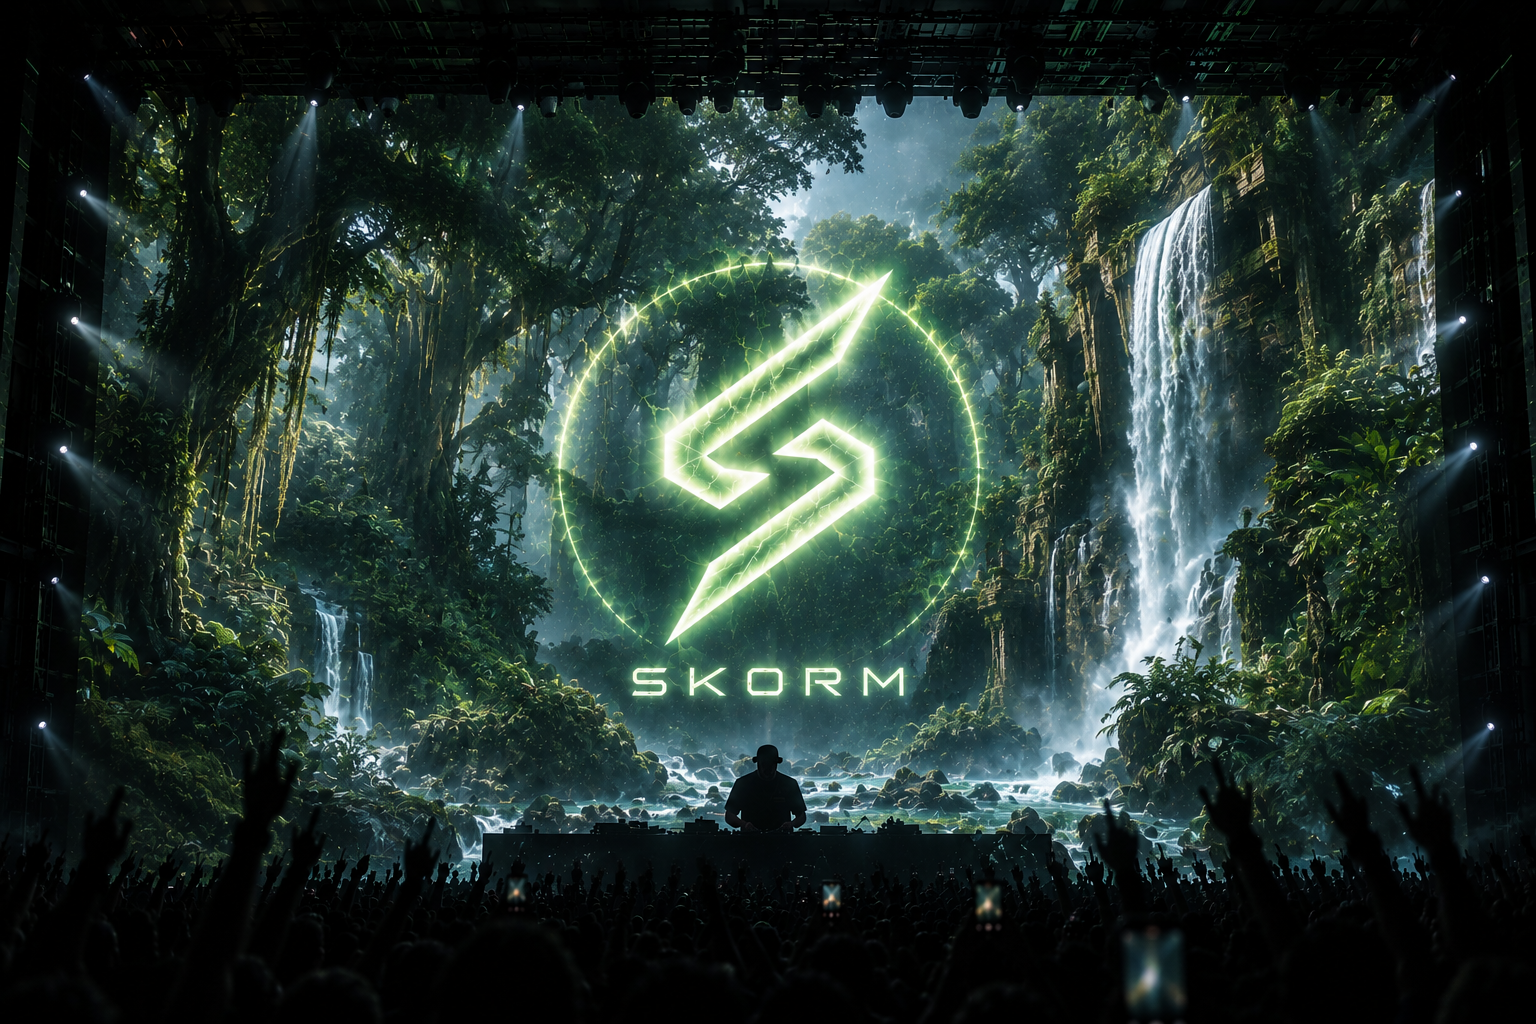
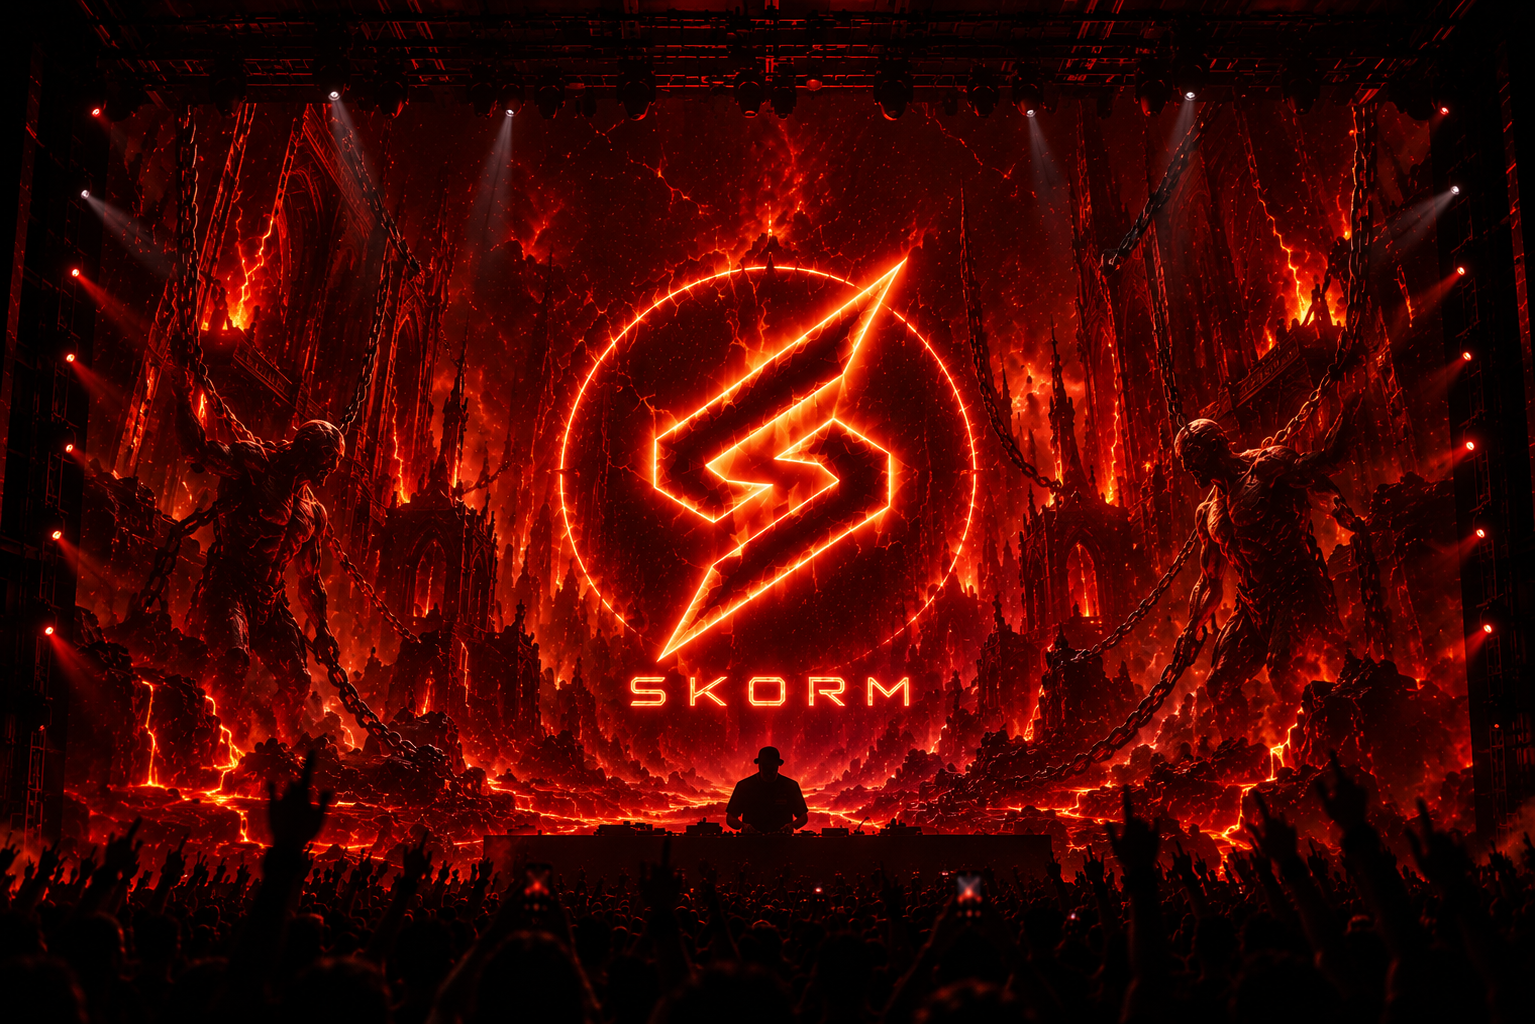
chore(theme): sync active design

diff --git a/assets/active-palette.css b/assets/active-palette.css
@@ -1,5 +1,5 @@
 :root {
-    --skorm-base-rgb: 2 8 6;
-    --skorm-secondary-rgb: 5 18 13;
-    --skorm-accent-rgb: 166 255 151;
+    --skorm-base-rgb: 13 3 2;
+    --skorm-secondary-rgb: 36 8 3;
+    --skorm-accent-rgb: 255 73 31;
 }
